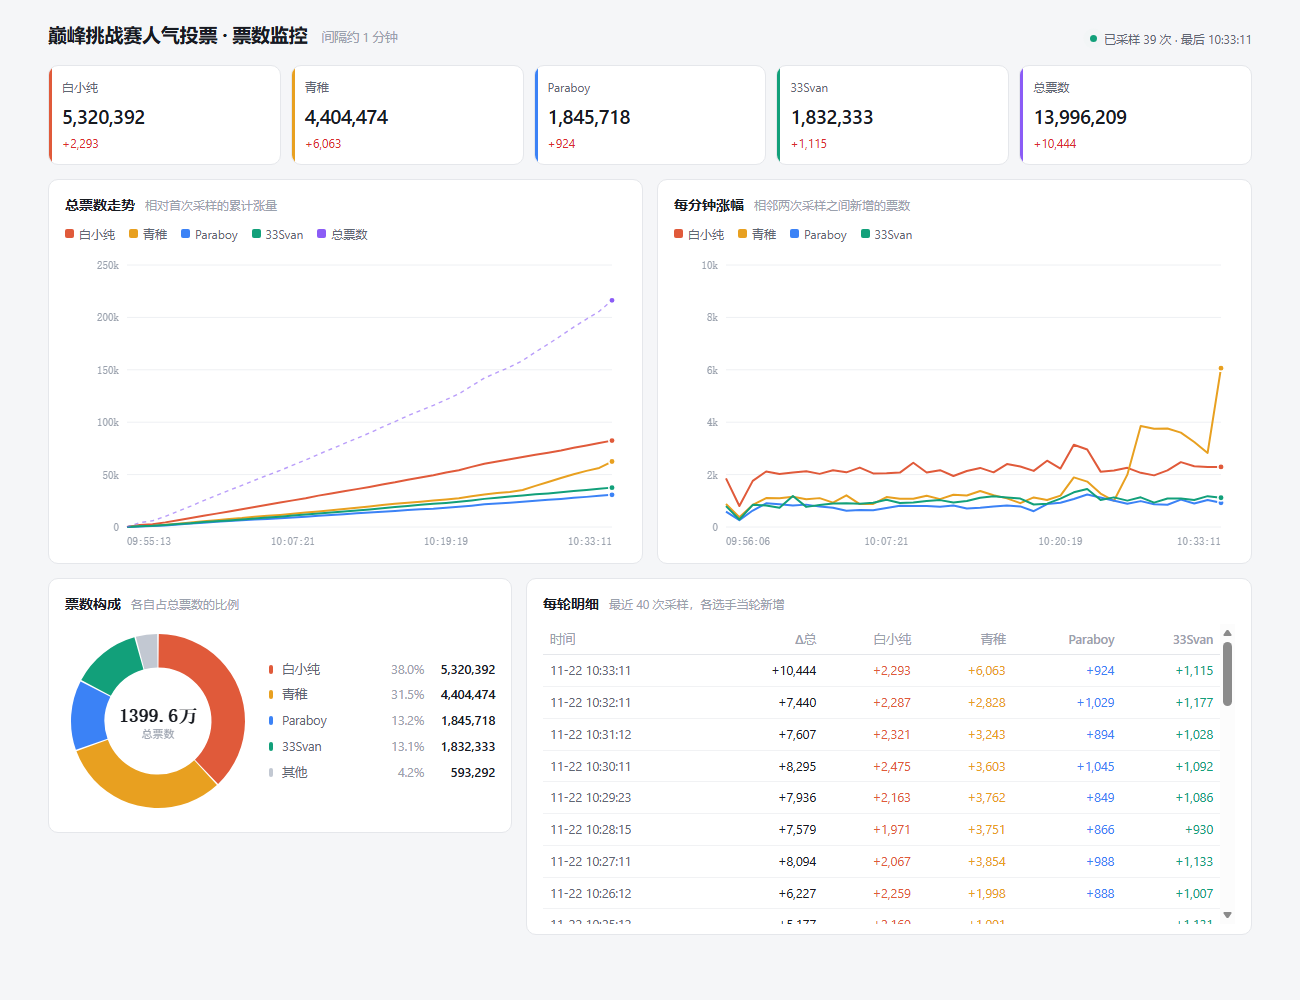
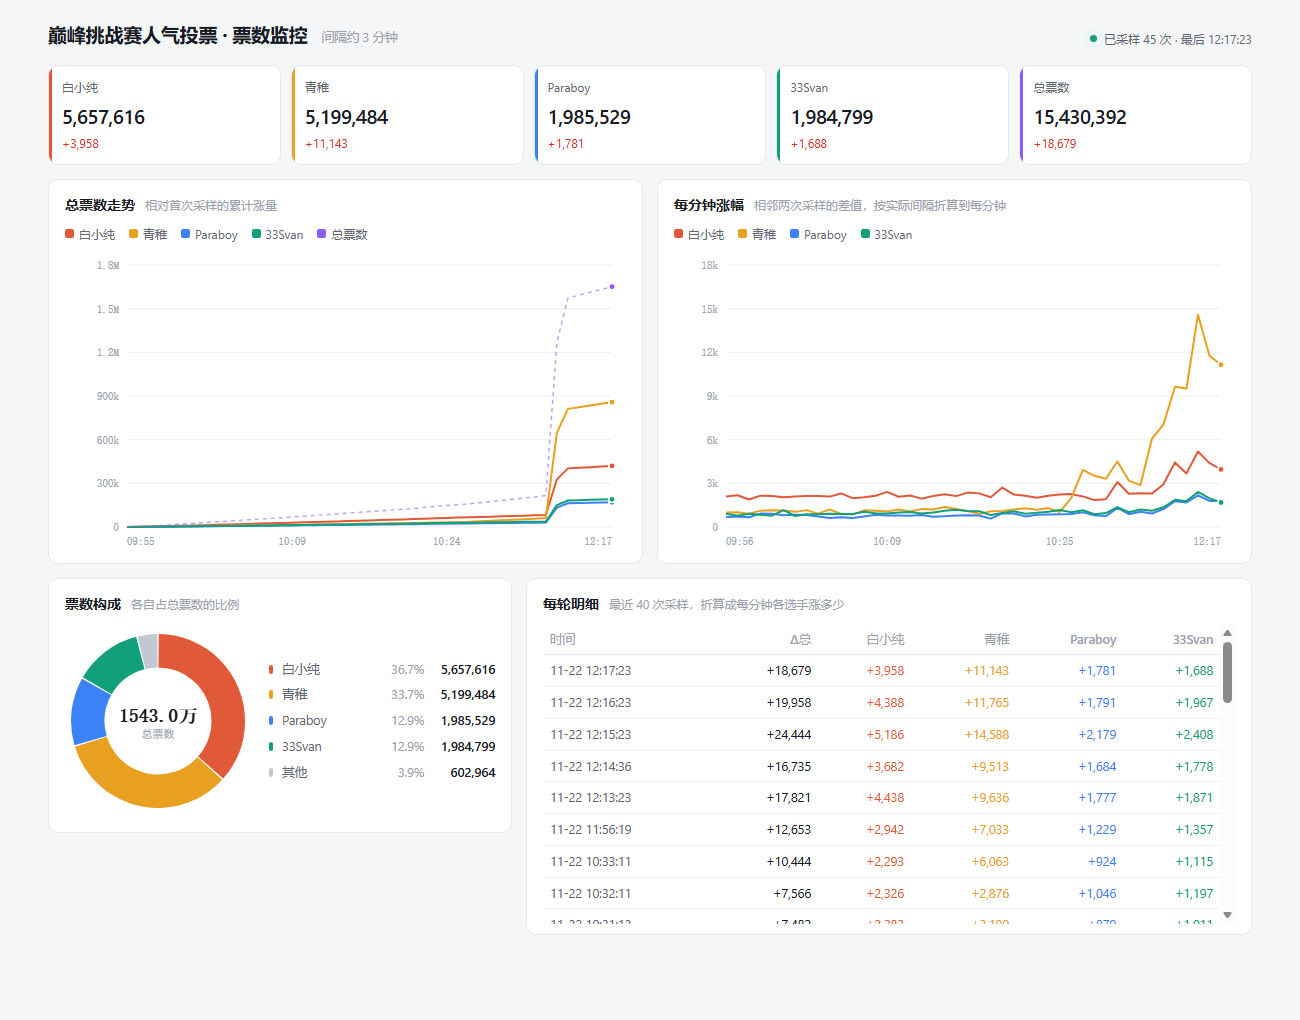
看板细节修正 + 空读数保护
- 涨幅图与明细表按实际采样间隔折算成每分钟，长间隔不再污染曲线
- Y 轴在 段数×步长 组合里挑留白最小的，刻度支持 M/k 混排
- 一整个数字都没读到的轮次跳过写入，不再往 CSV 追加空行

diff --git a/dashboard.html b/dashboard.html
@@ -87,7 +87,7 @@
       <canvas id="line"></canvas>
     </div>
     <div class="panel">
-      <div class="ptitle"><b>每分钟涨幅</b><span>相邻两次采样之间新增的票数</span></div>
+      <div class="ptitle"><b>每分钟涨幅</b><span>相邻两次采样的差值，按实际间隔折算到每分钟</span></div>
       <div class="legend" id="legend2"></div>
       <canvas id="gain"></canvas>
     </div>
@@ -102,7 +102,7 @@
       </div>
     </div>
     <div class="panel">
-      <div class="ptitle"><b>每轮明细</b><span>最近 40 次采样，各选手当轮新增</span></div>
+      <div class="ptitle"><b>每轮明细</b><span>最近 40 次采样，折算成每分钟各选手涨多少</span></div>
       <div class="scroll">
         <table>
           <thead><tr><th>时间</th><th>Δ总</th><th>白小纯</th><th>青稚</th><th>Paraboy</th><th>33Svan</th></tr></thead>
@@ -142,15 +142,30 @@ function parseCSV(text){
   }).filter(r=>r.total!=null);
 }
 
-// Y 轴按 5 段均分，步长取 1/2/2.5/5/10 × 10^n，刻度才是 50k / 100k 这种整数
-function niceAxis(v, div){
-  const D = div || 5;
-  if(!(v>0)) return {hi:D*200, step:200, div:D};
-  const raw = v/D;
-  const exp = Math.floor(Math.log10(raw)), base = Math.pow(10, exp), n = raw/base;
-  const mult = [1,2,2.5,5,10].find(s=>n<=s+1e-9) || 10;
-  const step = mult*base;
-  return {hi:step*D, step, div:D};
+// Y 轴：在若干「段数 × 步长」组合里挑一个上界最贴近数据的，避免一半画布是空白
+function niceAxis(v){
+  if(!(v>0)) return {hi:1000, step:200, div:5};
+  const mults = [1,1.2,1.5,2,2.5,3,4,5,6,8,10];
+  let best = null;
+  for(const div of [5,4,6,8]){
+    const baseExp = Math.floor(Math.log10(v/div));
+    for(const e of [baseExp-1, baseExp, baseExp+1]){
+      for(const m of mults){
+        const step = m*Math.pow(10,e), hi = step*div;
+        if(hi < v*1.02) continue;
+        const waste = hi/v;
+        if(!best || waste < best.waste) best = {hi, step, div, waste};
+      }
+    }
+  }
+  return best || {hi:v, step:v/5, div:5};
+}
+
+// 刻度值：过百万用 M，过千用 k
+function tickLabel(v){
+  if(v >= 1e6){ const x = v/1e6; return (x%1 ? x.toFixed(1) : x) + 'M'; }
+  if(v >= 1000){ const x = v/1000; return (x%1 ? x.toFixed(1) : x) + 'k'; }
+  return String(Math.round(v));
 }
 
 // 横轴标签：跨度小于 40 分钟时精确到秒，否则只到分
@@ -196,7 +211,7 @@ function drawSeries(g, W, H, pad, xs, ax){
   for(let i=0;i<=ax.div;i++){
     const v = ax.step*i, y = Y(v);
     g.beginPath(); g.moveTo(pad.l,y); g.lineTo(W-pad.r,y); g.stroke();
-    g.fillText(v>=1000 ? (v/1000).toFixed(v%1000?1:0)+'k' : Math.round(v), pad.l-8, y+4);
+    g.fillText(tickLabel(v), pad.l-8, y+4);
   }
   return {X, Y};
 }
@@ -243,13 +258,18 @@ function drawLine(cv){
   });
 }
 
-// 相邻两次采样的差值 = 这一分钟涨了多少票
+// 相邻两次采样的差值，按实际间隔折算成「每分钟涨多少」
+// 直接看差值会被长间隔（电脑休眠、采集中断）带偏，折算后各点可比
 function gains(){
   const out = [];
   for(let i=1;i<DATA.length;i++){
     const a = DATA[i-1], b = DATA[i];
-    const o = {t:b.t};
-    [...PKEYS,'total'].forEach(k=>{ o[k] = (a[k]==null||b[k]==null) ? null : b[k]-a[k]; });
+    const mins = (new Date(b.t.replace(/-/g,'/')) - new Date(a.t.replace(/-/g,'/'))) / 60000;
+    if(!(mins > 0.2)) continue;      // 时间戳重复或倒序，跳过
+    const o = {t:b.t, mins};
+    [...PKEYS,'total'].forEach(k=>{
+      o[k] = (a[k]==null||b[k]==null) ? null : (b[k]-a[k])/mins;
+    });
     out.push(o);
   }
   return out;
@@ -383,13 +403,14 @@ function render(){
     `<div class="lg"><span class="sw" style="background:${s.c}"></span>${s.name}</div>`).join('');
 
   const rows = gains().reverse().slice(0,40);
+  const rate = v => v==null ? '—' : (v>=0?'+':'')+fmt(Math.round(v));
   document.getElementById('tbody').innerHTML = rows.length ? rows.map(r=>`<tr>
       <td>${String(r.t).slice(5)}</td>
-      <td>${r.total==null?'—':(r.total>=0?'+':'')+fmt(r.total)}</td>
-      <td style="color:var(--p1)">${r.r1l==null?'—':(r.r1l>=0?'+':'')+fmt(r.r1l)}</td>
-      <td style="color:var(--p2)">${r.r1r==null?'—':(r.r1r>=0?'+':'')+fmt(r.r1r)}</td>
-      <td style="color:var(--p3)">${r.r2l==null?'—':(r.r2l>=0?'+':'')+fmt(r.r2l)}</td>
-      <td style="color:var(--p4)">${r.r2r==null?'—':(r.r2r>=0?'+':'')+fmt(r.r2r)}</td>
+      <td>${rate(r.total)}</td>
+      <td style="color:var(--p1)">${rate(r.r1l)}</td>
+      <td style="color:var(--p2)">${rate(r.r1r)}</td>
+      <td style="color:var(--p3)">${rate(r.r2l)}</td>
+      <td style="color:var(--p4)">${rate(r.r2r)}</td>
     </tr>`).join('') : '<tr><td colspan="6" class="empty">暂无数据</td></tr>';
 
   drawLine(document.getElementById('line'));

diff --git a/vote_scraper.py b/vote_scraper.py
@@ -518,6 +518,9 @@ class Scraper:
             try:
                 votes, raw = self.read_once(dry_run=dry_run,
                                             save=(self.save_mode == "all"))
+                # 一个数字都没读到（页面没加载完 / 截图是白屏）就跳过，别往 CSV 里写空行
+                if votes.get("total") is None:
+                    raise RuntimeError("本轮没读到总票数，跳过写入")
                 bad = self.suspect_fields(votes)
                 if bad and self.save_mode == "need" and self.last_images:
                     a, b = self.last_images
